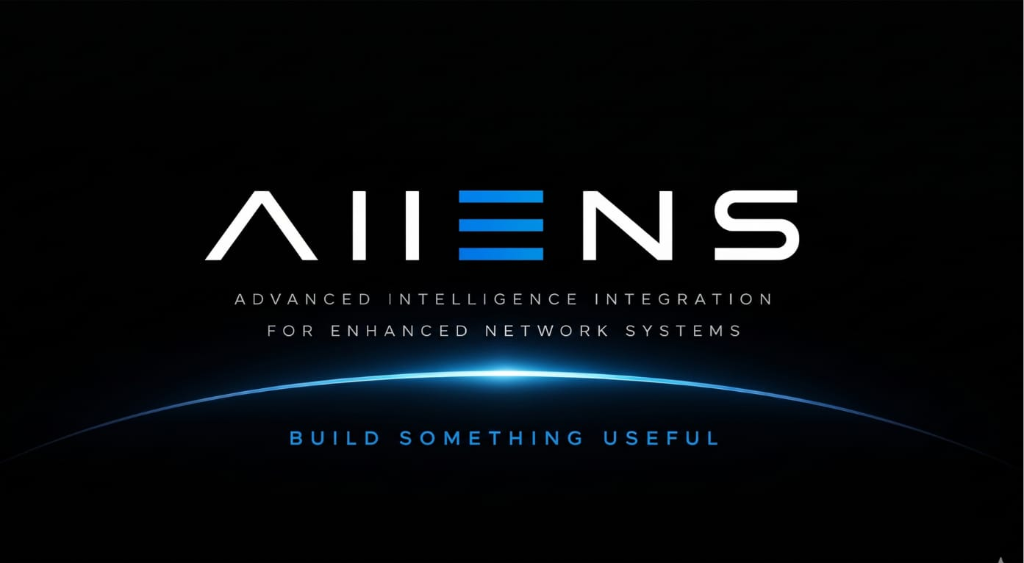
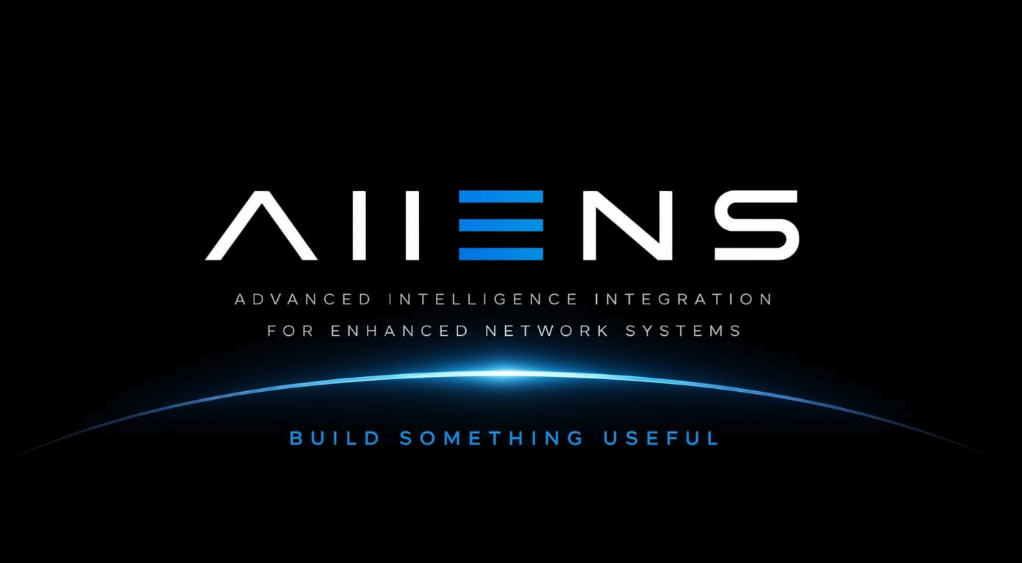
Refine hero artwork blending, seamless pitch black integration, and responsive presentation

diff --git a/src/components/Hero.jsx b/src/components/Hero.jsx
@@ -11,17 +11,29 @@ export default function Hero() {
         <div className="absolute top-1/2 left-1/2 -translate-x-1/2 -translate-y-1/2 w-[800px] h-[500px] bg-gradient-to-b from-cyan-900/15 via-blue-900/10 to-transparent blur-[140px] opacity-70" />
       </div>
 
-      <div className="relative z-10 mx-auto flex w-full max-w-5xl flex-col items-center justify-center text-center">
+      <div className="relative z-10 mx-auto flex w-full max-w-6xl flex-col items-center justify-center text-center">
         {/* Exact Hero Artwork matching the picture */}
-        <div className="w-full max-w-4xl relative">
+        <div className="w-full relative px-2">
           <img
             src="/images/brand/aiiens-hero.png"
             alt="AIIENS — Advanced Intelligence Integration for Enhanced Network Systems — Build Something Useful"
-            className="w-full h-auto object-contain select-none pointer-events-none drop-shadow-[0_0_40px_rgba(0,180,255,0.25)]"
+            className="w-full h-auto object-contain select-none pointer-events-none drop-shadow-[0_0_50px_rgba(0,180,255,0.2)]"
             loading="eager"
           />
         </div>
       </div>
+
+      {/* Subtle Scroll Indicator */}
+      <a 
+        href="#about"
+        className="absolute bottom-6 left-1/2 -translate-x-1/2 z-20 flex flex-col items-center gap-1.5 text-white/30 hover:text-cyan-400 transition-colors group cursor-pointer"
+        aria-label="Scroll to About section"
+      >
+        <span className="text-[9px] font-mono tracking-[0.25em] uppercase">EXPLORE</span>
+        <div className="w-4 h-7 rounded-full border border-white/15 flex items-start justify-center p-1 group-hover:border-cyan-400/50 transition-colors">
+          <div className="w-0.5 h-1.5 bg-cyan-400 rounded-full animate-bounce" />
+        </div>
+      </a>
     </section>
   );
 }
